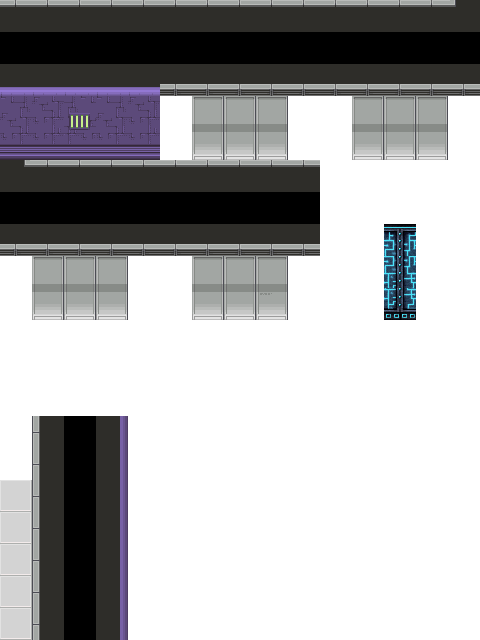
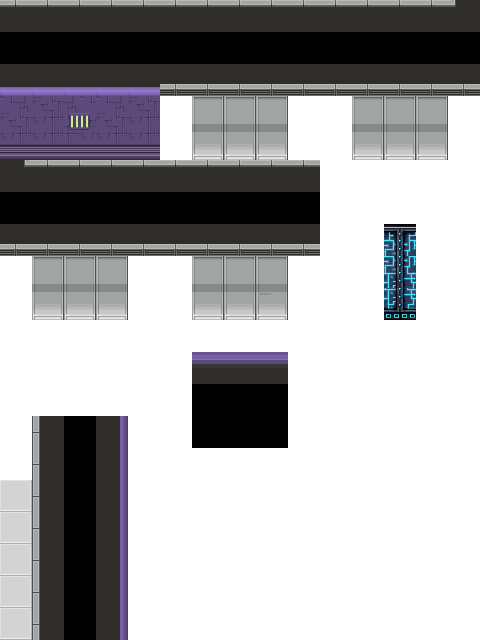
New barrier and start of the clock script

Changed region(s): [[0.375, 0.5312, 0.625, 0.7188]]

diff --git a/js/plugins/MacThings.js b/js/plugins/MacThings.js
@@ -27,6 +27,7 @@ try {
 const MAC_DEBUG = true;
 const VERBOSE_LOGS = false;
 const DEBUG_STAGE = 9; //If debug is on, game stage will be set to this
+const DEBUG_SWITCHES = [141]; //Switches that will be turned on when debug mode is on 
 const MUSIC_DEBUG = false;
 window.g = window.g || {}
 window.s = wordBank.en; //This should change once the config gets loaded
@@ -43,7 +44,7 @@ const SECRET_KEYS = ["otoczenie", "nokianazawsze", "całkiemjakżycie", "kalkula
 const AUTOSAVE_DELAY = 300 * 1000; //How often to autosave (in miliseconds)
 const AUTOSAVE_RETRY = 5 * 1000; //If autosave fails, wait this long to try again
 const VOLUME_INCREMENT = 5; //How many % to change the volume by from one button-press
-const ROOM_UNCLOKS = [1, 2, 3, 5, 7, 10, 13, 16, 20]; //How many keys are needed for each unlock stage
+const ROOM_UNCLOKS = [1, 2, 3, 5, 7, 10, 13, 16, 19, 22]; //How many keys are needed for each unlock stage
 const PRIMES = [2n, 3n, 5n, 7n, 11n, 13n, 17n, 19n, 23n, 29n, 31n, 37n, 41n, 43n, 47n, 53n, 59n, 61n, 67n, 71n, 73n, 79n, 83n, 89n, 97n, 101n, 103n, 107n, 109n, 113n, 127n, 131n, 137n, 139n, 149n, 151n, 157n, 163n, 167n, 173n, 179n, 181n, 191n, 193n, 197n, 199n, 211n, 223n, 227n, 229n, 233n, 239n, 241n, 251n, 257n, 263n, 269n, 271n, 277n, 281n, 283n, 293n, 307n, 311n, 313n, 317n, 331n, 337n, 347n, 349n, 353n, 359n, 367n, 373n, 379n, 383n, 389n, 397n, 401n, 409n, 419n, 421n, 431n, 433n, 439n, 443n, 449n, 457n, 461n, 463n, 467n, 479n, 487n, 491n, 499n, 503n, 509n, 521n, 523n, 541n];
 const WINDOW_MESSAGE_HEIGHT = 336; //This is only descriptive, doesn't actually influence Window_Message
 
